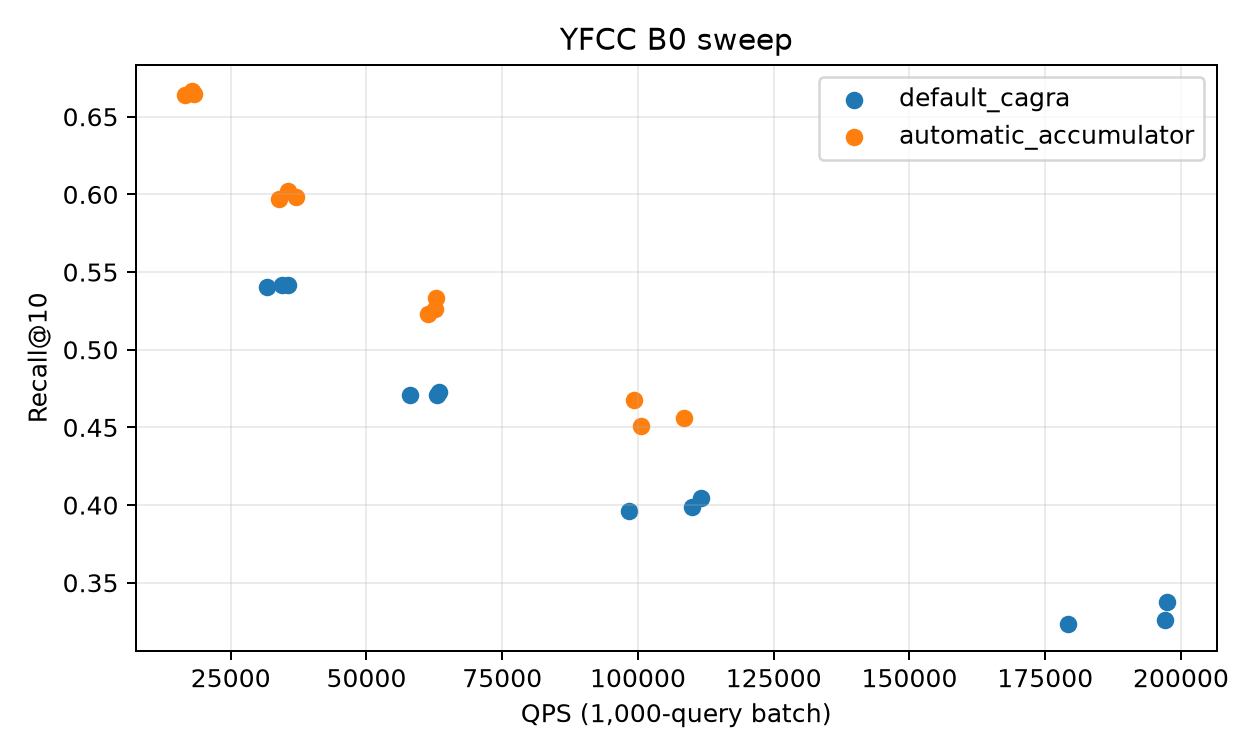
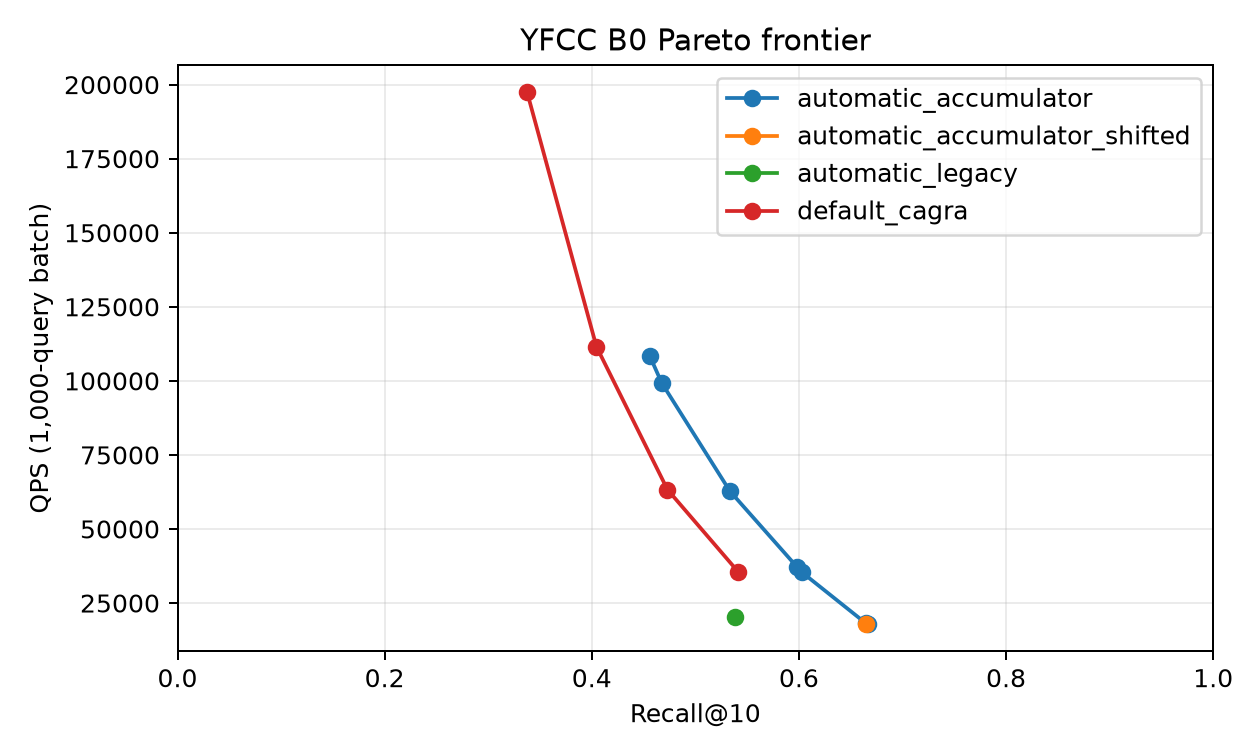
Update YFCC UDF B0 plot to Recall-QPS Pareto frontier

diff --git a/benchmarks/favor/yfcc_udf/analyze.py b/benchmarks/favor/yfcc_udf/analyze.py
@@ -175,6 +175,27 @@ def summarize_group_diagnostics(result_root: Path) -> list[dict]:
     return output
 
 
+def pareto_frontier(points: list[dict], maximize_y: bool = True) -> list[dict]:
+    if not points:
+        return []
+    filtered = sorted(points, key=lambda p: (float(p["recall"]), float(p["qps"])), reverse=True)
+    frontier: list[dict] = []
+    best_qps = -1.0
+    for row in filtered:
+        x = float(row["recall"])
+        y = float(row["qps"])
+        if maximize_y:
+            if y >= best_qps:
+                frontier.append(row)
+                best_qps = y
+        else:
+            if y <= best_qps or best_qps < 0:
+                frontier.append(row)
+                best_qps = y
+    frontier.sort(key=lambda row: float(row["recall"]))
+    return frontier
+
+
 def plot_results(
     result_root: Path,
     correctness: list[dict],
@@ -189,10 +210,18 @@ def plot_results(
     plot_dir.mkdir(parents=True, exist_ok=True)
 
     fig, ax = plt.subplots(figsize=(7, 4.2))
-    for method in ("default_cagra", "automatic_accumulator"):
+    for method in sorted({r["variant"] for r in correctness if r["max_iterations"] == 0}):
         rows = [r for r in correctness if r["variant"] == method and r["max_iterations"] == 0]
-        ax.scatter([r["qps"] for r in rows], [r["recall"] for r in rows], label=method)
-    ax.set(xlabel="QPS (1,000-query batch)", ylabel="Recall@10", title="YFCC B0 sweep")
+        frontier = pareto_frontier(rows, maximize_y=True)
+        if frontier:
+            ax.plot(
+                [r["recall"] for r in frontier],
+                [r["qps"] for r in frontier],
+                marker="o",
+                label=method,
+            )
+    ax.set(xlabel="Recall@10", ylabel="QPS (1,000-query batch)", title="YFCC B0 Pareto frontier")
+    ax.set_xlim(0.0, 1.0)
     ax.grid(alpha=0.25)
     ax.legend()
     fig.tight_layout()
